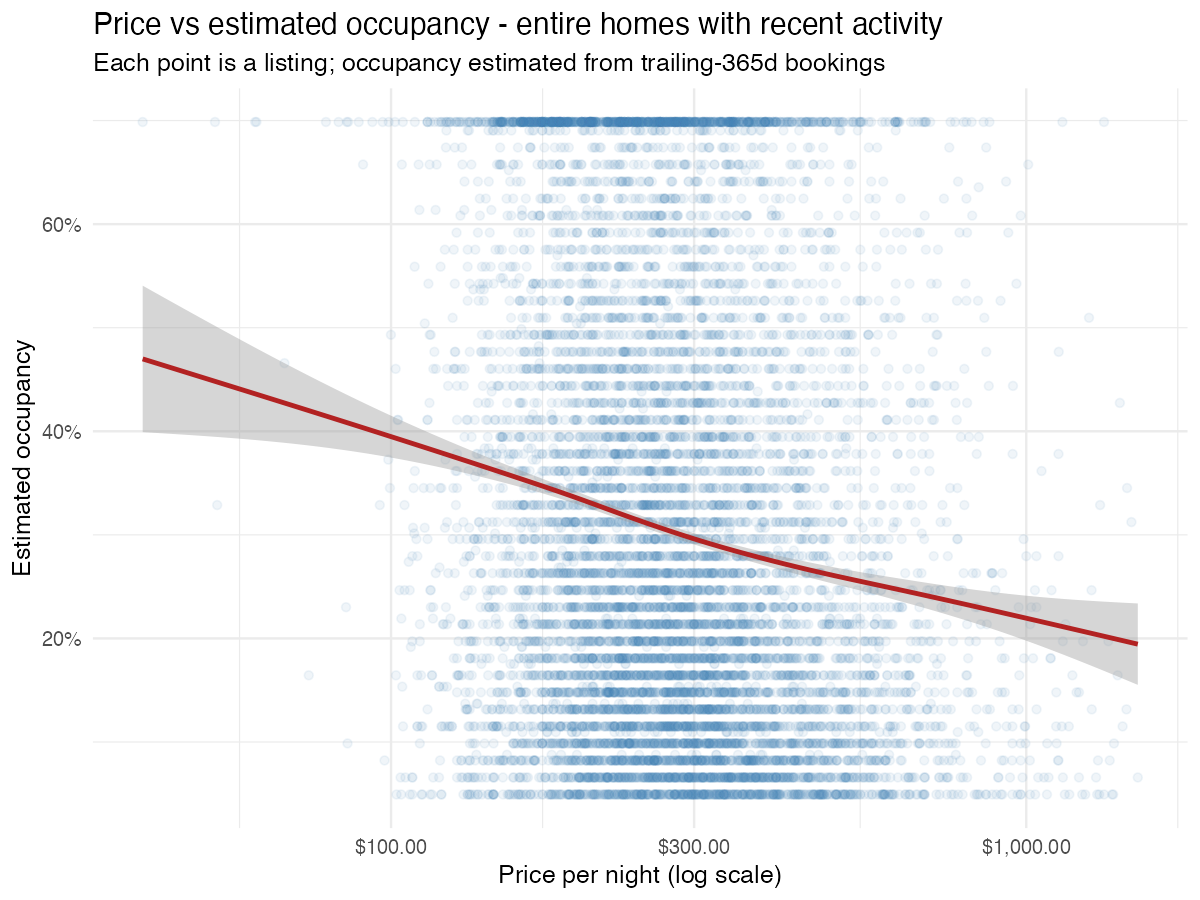
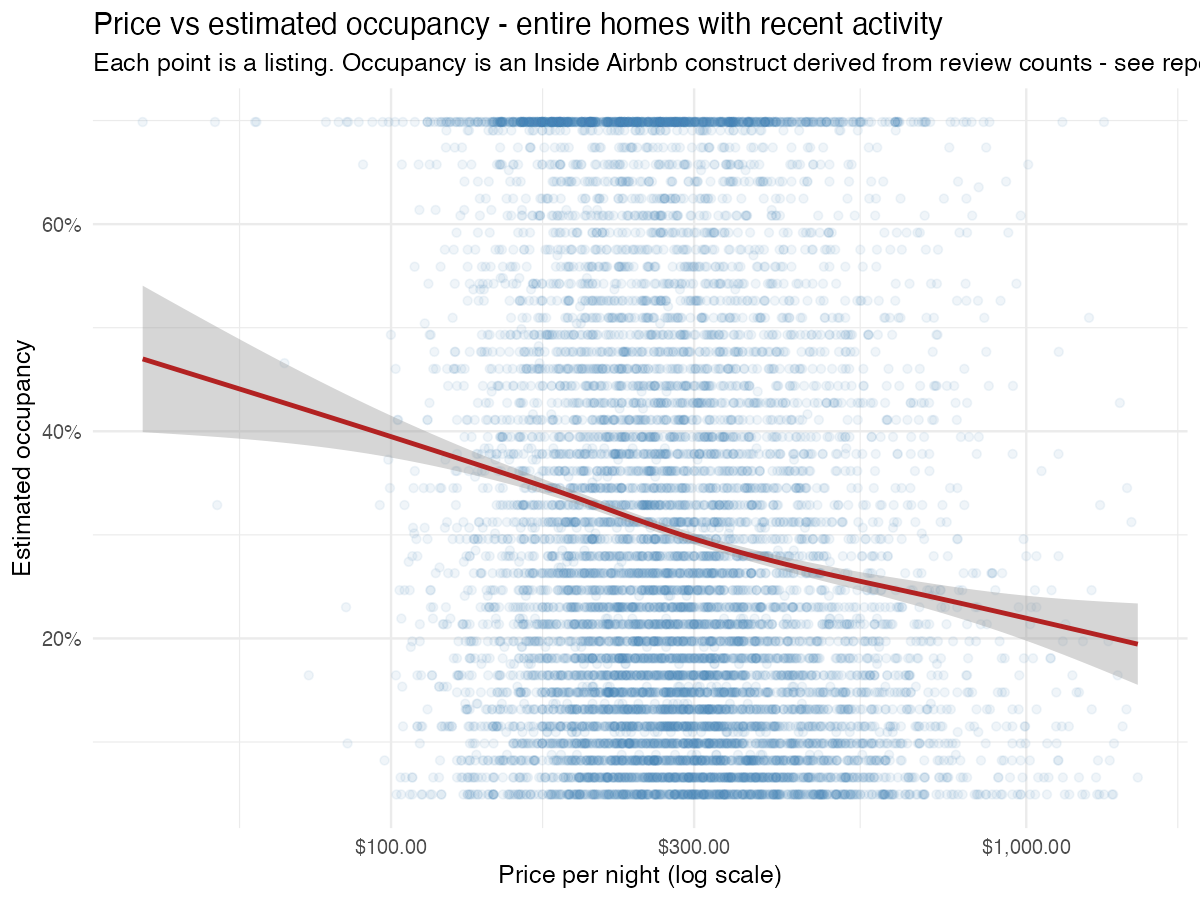
Reconcile Superhost table, add elasticity robustness, document method
The superhost_comparison table still carried the pooled medians that
revenue-analysis.md corrects, so a reader taking numbers from the table would
have contradicted the write-up. It now reports all listings and active-only
side by side.

Adds a five-specification robustness check on the price elasticity, which is
the single number the pricing recommendation rests on. Dropping availability
(partly an outcome of being booked) and Superhost status (awarded on booking
performance) moves it from -0.592 to -0.666; entire homes give -0.695 and
regularly booked listings -0.379. All sit well above -1, so the direction of
the recommendation is unchanged.

Also documents the script 04 design in methodology.md, corrects the reported
intensive-margin n from 12,660 to 12,651 (lm drops nine rows with a missing
minimum-nights group), notes on figure 05 that occupancy is a construct, and
marks the revenue question in findings.md as answered.

Changed region(s): [[0.2775, 0.0622, 1.0, 0.0933]]

diff --git a/reports/methodology.md b/reports/methodology.md
@@ -45,6 +45,41 @@ demand proxy, indexed so the mean month equals 1. The forward calendar cannot
 serve this purpose: most hosts have not opened distant dates, so an unavailable
 night usually means "not yet listed" rather than "booked".
 
+## Revenue analysis (script 04)
+
+The revenue question needs a different design from the price model, because the
+revenue field is not a measurement. It is computed by Inside Airbnb as
+`round(price x min(reviews_ltm x 2 x max(minimum_nights, 3), 255))`, which we
+verified reproduces the published values exactly. Three rules follow:
+
+- **Never regress revenue on price, review count or minimum nights.** They are
+  revenue by construction; the fit would be tautological.
+- **Model review counts, not occupancy.** Occupancy is review count rescaled by
+  the host's own minimum-night rule, so modelling it builds a policy multiplier
+  into the response variable.
+- **Read rankings, not levels.** Dollar amounts inherit Inside Airbnb's
+  assumptions about review rates and stay lengths.
+
+Given that, the design is:
+
+1. **Variance decomposition.** `log(revenue) = log(price) + log(nights)` holds
+   exactly, so the variance splits into pricing, volume and covariance shares
+   that sum to one. This is arithmetic on an identity, with nothing to specify
+   and no causal claim.
+2. **A two-part (hurdle) model.** 23.7% of priced listings record no bookings.
+   Pooling them with active listings is what produces inflated group
+   comparisons, so the extensive margin (any booking at all, logistic) and the
+   intensive margin (how many, OLS on log reviews) are estimated separately.
+3. **Elasticity with robustness checks.** The price coefficient in the volume
+   model drives the pricing recommendation, so it is re-estimated across five
+   specifications, dropping the controls most open to challenge
+   (`reports/tables/revenue_elasticity_robustness.csv`).
+
+Two endogeneity problems are disclosed rather than solved. `availability_365` is
+partly an outcome of being booked, and Superhost status is awarded partly on
+booking performance, so neither can be read causally. Dropping both moves the
+elasticity from -0.592 to -0.666 — the conclusion is unchanged.
+
 ## Limitations to state in the report
 
 1. Occupancy and revenue are Inside Airbnb estimates, not booking records, and

diff --git a/reports/revenue-analysis.md b/reports/revenue-analysis.md
@@ -116,7 +116,7 @@ their demand.
 ### Stage two — booking more often
 
 Among active listings, OLS on log review count over twelve months
-(`reports/tables/revenue_intensive_margin.csv`). n = 12,660, adjusted R² = 0.299:
+(`reports/tables/revenue_intensive_margin.csv`). n = 12,651, adjusted R² = 0.299:
 
 | Factor | Effect on booking volume |
 |---|---:|
@@ -155,6 +155,22 @@ and book more, and the model controls for size, type, location, amenity count
 and rating but cannot control for quality it never observes. The true causal
 elasticity is likely more negative than −0.592, so the +4.0% figure should be
 read as an upper bound on the gain from raising prices, not a promise.
+
+Because the whole pricing recommendation rests on this one number, it was
+re-estimated dropping the controls most open to challenge — `availability_365`
+is partly an outcome of being booked, and Superhost status is awarded on booking
+performance (`reports/tables/revenue_elasticity_robustness.csv`):
+
+| Specification | n | Elasticity | Revenue effect of +10% price |
+|---|---:|---:|---:|
+| Main specification | 12,651 | −0.592 | +4.0% |
+| Without availability | 12,651 | −0.606 | +3.8% |
+| Without availability or Superhost | 12,651 | −0.666 | +3.2% |
+| Entire homes only | 11,439 | −0.695 | +3.0% |
+| Regularly booked only (6+) | 8,479 | −0.379 | +6.1% |
+
+**Every specification sits well above −1.** The size of the gain moves, but the
+direction of the recommendation does not depend on the choice of controls.
 
 ---
 

diff --git a/reports/findings.md b/reports/findings.md
@@ -117,8 +117,11 @@ location.
 
 ## Open questions for the team
 
-- Should we model revenue directly rather than price? Price is only half the
-  decision and the Superhost finding suggests revenue is where the story is.
+- ~~Should we model revenue directly rather than price?~~ Done — see
+  [revenue-analysis.md](revenue-analysis.md). Revenue turned out to be a
+  constructed field, which changed the method: the identity is decomposed rather
+  than regressed. Booking volume drives 78% of revenue variation market-wide but
+  only 57% among listings already booking regularly.
 - The review text (1.03 million comments) is untouched. Sentiment or topic
   analysis could explain what separates a 4.9 listing from a 4.7 one.
 - Regulatory angle: Victoria's short-stay levy took effect in 2025 and the 28+
